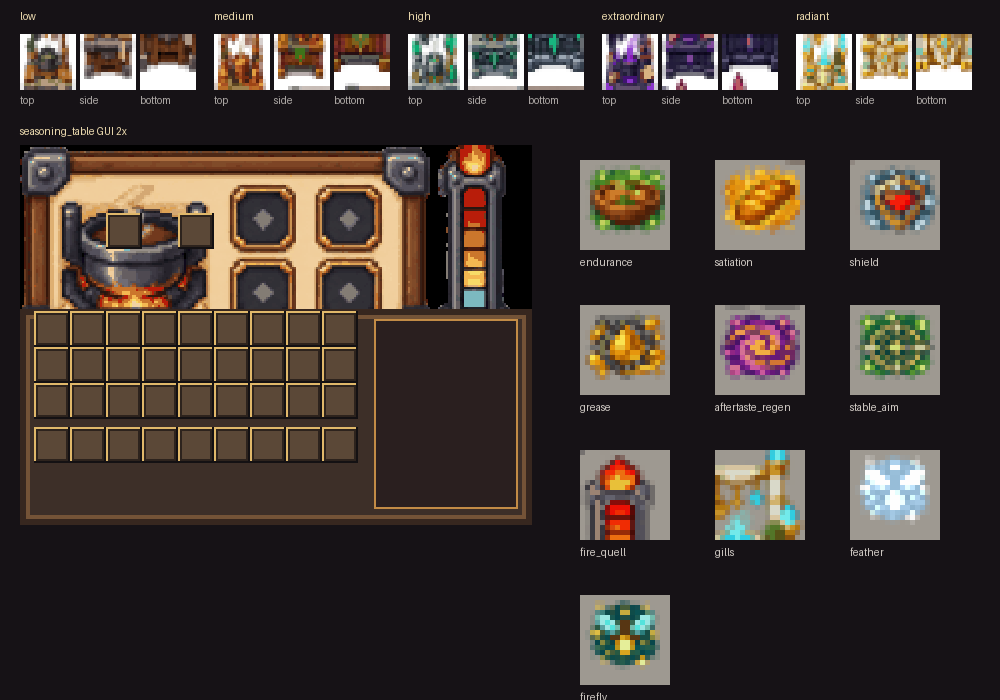
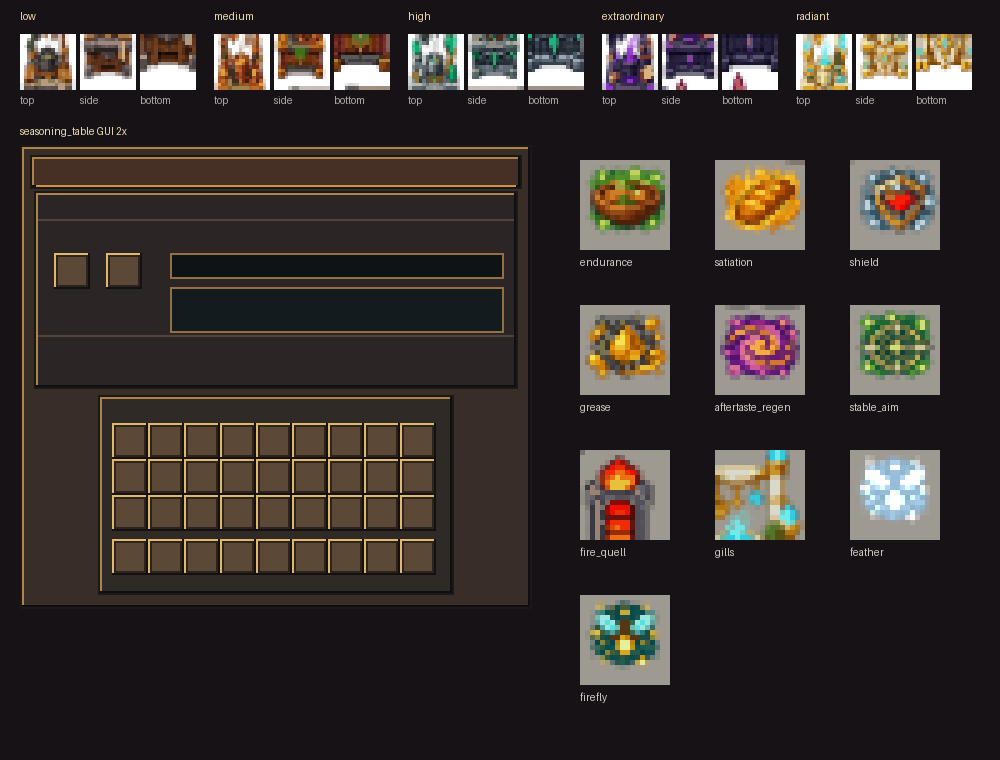
fix(chef): 重做调味台界面与工作台模型

diff --git a/src/main/java/com/miningdim/job/chef/client/SeasoningScreen.java b/src/main/java/com/miningdim/job/chef/client/SeasoningScreen.java
@@ -20,30 +20,51 @@ public final class SeasoningScreen extends AbstractMiningScreen<SeasoningMenu> {
     private static final ResourceLocation BG =
             new ResourceLocation(MiningConstants.MODID, "textures/gui/seasoning_table.png");
     private static final int WIDTH = 256;
-    private static final int HEIGHT = 190;
+    private static final int HEIGHT = 232;
 
-    private static final int HEAT_BAR_X = 24;
-    private static final int HEAT_BAR_Y = 47;
-    private static final int HEAT_BAR_W = 208;
-    private static final int HEAT_BAR_H = 8;
-    private static final int HEAT_BUTTON_X = 24;
-    private static final int HEAT_BUTTON_Y = 64;
-    private static final int HEAT_BUTTON_W = 208;
-    private static final int HEAT_BUTTON_H = 18;
-    private static final int START_X = 24;
-    private static final int START_Y = 64;
-    private static final int START_W = 100;
-    private static final int START_H = 18;
-    private static final int QTE_X = 24;
-    private static final int QTE_Y = 64;
-    private static final int QTE_W = 46;
-    private static final int QTE_H = 18;
-    private static final int QTE_GAP = 8;
+    private static final int HEAT_BAR_X = 76;
+    private static final int HEAT_BAR_Y = 55;
+    private static final int HEAT_BAR_W = 164;
+    private static final int HEAT_BAR_H = 10;
+    private static final int HEAT_BUTTON_X = 76;
+    private static final int HEAT_BUTTON_Y = 72;
+    private static final int HEAT_BUTTON_W = 164;
+    private static final int HEAT_BUTTON_H = 20;
+    private static final int START_X = 76;
+    private static final int START_Y = 72;
+    private static final int START_W = 164;
+    private static final int START_H = 20;
+    private static final int QTE_X = 76;
+    private static final int QTE_Y = 72;
+    private static final int QTE_W = 38;
+    private static final int QTE_H = 20;
+    private static final int QTE_GAP = 4;
 
     private boolean heatPressed;
 
     public SeasoningScreen(SeasoningMenu menu, Inventory inv, Component title) {
         super(menu, inv, title, BG, WIDTH, HEIGHT);
+        this.titleLabelX = 12;
+        this.titleLabelY = 8;
+        this.inventoryLabelX = 47;
+        this.inventoryLabelY = 128;
+    }
+
+    @Override
+    protected void renderBg(GuiGraphics graphics, float partialTick, int mouseX, int mouseY) {
+        int leftPos = (this.width - WIDTH) / 2;
+        int topPos = (this.height - HEIGHT) / 2;
+        // 不能使用默认 256x256 UV 尺寸：本界面高 232px，否则背景会被纵向采样错位，槽位与文字全部叠在一起。
+        graphics.blit(BG, leftPos, topPos, WIDTH, HEIGHT,
+                0.0F, 0.0F, WIDTH, HEIGHT, WIDTH, HEIGHT);
+        renderExtra(graphics, leftPos, topPos, mouseX, mouseY, partialTick);
+    }
+
+    @Override
+    protected void renderLabels(GuiGraphics graphics, int mouseX, int mouseY) {
+        graphics.drawString(font, title, titleLabelX, titleLabelY, 0xFFF4E3B6, false);
+        graphics.drawString(font, playerInventoryTitle,
+                inventoryLabelX, inventoryLabelY, 0xFFD5C8B5, false);
     }
 
     @Override
@@ -66,6 +87,7 @@ public final class SeasoningScreen extends AbstractMiningScreen<SeasoningMenu> {
                             : "screen.miningdim.chef.heat.press"),
                     heatPressed ? 0xFFB86B2B : 0xFF386B87);
         }
+        renderSlotLabels(graphics, leftPos, topPos);
         renderOutcome(graphics, leftPos, topPos, phase);
     }
 
@@ -76,13 +98,20 @@ public final class SeasoningScreen extends AbstractMiningScreen<SeasoningMenu> {
             case 3 -> Component.translatable("screen.miningdim.chef.phase.done");
             default -> Component.translatable("screen.miningdim.chef.phase.idle");
         };
-        graphics.drawString(font, state, leftPos + 24, topPos + 8, 0xFFE6EEF2, false);
+        graphics.drawString(font, state, leftPos + 12, topPos + 26, 0xFFE9E2D3, false);
         graphics.drawString(font, Component.translatable("screen.miningdim.chef.time",
-                        menu.remainingTicks()), leftPos + 24, topPos + 20, 0xFFB8C6CE, false);
+                        menu.remainingTicks()), leftPos + 116, topPos + 26, 0xFFC8D1D4, false);
         graphics.drawString(font, Component.translatable("screen.miningdim.chef.hits",
-                        menu.hits(), menu.qteCount()), leftPos + 126, topPos + 20, 0xFFB8C6CE, false);
+                        menu.hits(), menu.qteCount()), leftPos + 200, topPos + 26, 0xFFC8D1D4, false);
         graphics.drawString(font, Component.translatable("screen.miningdim.chef.tier_cap",
-                        menu.tierCap().id()), leftPos + 24, topPos + 34, 0xFFD7B86A, false);
+                        menu.tierCap().id()), leftPos + 76, topPos + 42, 0xFFE2BD6B, false);
+    }
+
+    private void renderSlotLabels(GuiGraphics graphics, int leftPos, int topPos) {
+        graphics.drawString(font, Component.translatable("screen.miningdim.chef.slot.dish"),
+                leftPos + 17, topPos + 42, 0xFFBFAF98, false);
+        graphics.drawString(font, Component.translatable("screen.miningdim.chef.slot.seasoning"),
+                leftPos + 43, topPos + 42, 0xFFBFAF98, false);
     }
 
     private void renderHeatBar(GuiGraphics graphics, int leftPos, int topPos) {
@@ -102,11 +131,11 @@ public final class SeasoningScreen extends AbstractMiningScreen<SeasoningMenu> {
         Component targetPrompt = menu.cueActive()
                 ? Component.translatable("screen.miningdim.chef.target", menu.targetIndex() + 1)
                 : Component.translatable("screen.miningdim.chef.target.wait");
-        graphics.drawString(font, targetPrompt, leftPos + QTE_X, topPos + 53, 0xFFF0CE72, false);
+        graphics.drawString(font, targetPrompt, leftPos + 12, topPos + 99, 0xFFF0CE72, false);
         for (int target = 0; target < 4; target++) {
             int x = leftPos + QTE_X + target * (QTE_W + QTE_GAP);
             int y = topPos + QTE_Y;
-            boolean selected = target == menu.targetIndex();
+            boolean selected = menu.cueActive() && target == menu.targetIndex();
             boolean hovered = inRect(mouseX, mouseY, x, y, QTE_W, QTE_H);
             int color = selected ? 0xFFB47532 : 0xFF30434D;
             if (hovered) {
@@ -123,13 +152,13 @@ public final class SeasoningScreen extends AbstractMiningScreen<SeasoningMenu> {
         }
         if (menu.failureReason() == 0 && menu.finalQuality() >= 0) {
             graphics.drawString(font, Component.translatable("screen.miningdim.chef.quality",
-                            qualityText()), leftPos + 24, topPos + 88, 0xFFF0CE72, false);
-            graphics.drawString(font, Component.translatable("screen.miningdim.chef.done.take_output"),
-                    leftPos + 24, topPos + 101, 0xFFB8C6CE, false);
+                            qualityText()), leftPos + 12, topPos + 98, 0xFFF0CE72, false);
+            graphics.drawWordWrap(font, Component.translatable("screen.miningdim.chef.done.take_output"),
+                    leftPos + 12, topPos + 108, 232, 0xFFB8C6CE);
             return;
         }
-        graphics.drawString(font, Component.translatable("screen.miningdim.chef.failure",
-                        failureText()), leftPos + 24, topPos + 88, 0xFFE58B8B, false);
+        graphics.drawWordWrap(font, Component.translatable("screen.miningdim.chef.failure",
+                        failureText()), leftPos + 12, topPos + 98, 232, 0xFFE58B8B);
     }
 
     private Component failureText() {
@@ -173,7 +202,7 @@ public final class SeasoningScreen extends AbstractMiningScreen<SeasoningMenu> {
                 }
             }
             case 2 -> {
-                int target = targetAt(mouseX, mouseY, leftPos, topPos);
+                int target = menu.cueActive() ? targetAt(mouseX, mouseY, leftPos, topPos) : -1;
                 if (target >= 0) {
                     send(SeasoningGameC2S.Action.SEASON_HIT, target);
                     return true;

diff --git a/tools/generate_chef_assets.py b/tools/generate_chef_assets.py
@@ -67,25 +67,48 @@ def slot(draw: ImageDraw.ImageDraw, x: int, y: int) -> None:
     draw.rectangle((x + 2, y + 2, x + 15, y + 15), fill=(91, 72, 55, 255))
 
 
-def build_gui(source: Image.Image) -> None:
+def bevel_panel(draw: ImageDraw.ImageDraw, box: tuple[int, int, int, int],
+                fill: tuple[int, int, int, int]) -> None:
+    """Draw a one-pixel, Minecraft-style hard-edged panel without resampling."""
+    left, top, right, bottom = box
+    draw.rectangle(box, fill=(28, 24, 24, 255))
+    draw.line((left + 1, top + 1, right - 1, top + 1), fill=(174, 132, 76, 255))
+    draw.line((left + 1, top + 1, left + 1, bottom - 1), fill=(174, 132, 76, 255))
+    draw.line((left + 1, bottom - 1, right - 1, bottom - 1), fill=(15, 14, 16, 255))
+    draw.line((right - 1, top + 1, right - 1, bottom - 1), fill=(15, 14, 16, 255))
+    draw.rectangle((left + 2, top + 2, right - 2, bottom - 2), fill=fill)
+
+
+def build_gui(_source: Image.Image) -> None:
     gui_dir = TEXTURES / "gui"
     gui_dir.mkdir(parents=True, exist_ok=True)
-    panel_source = source.crop((380, 455, 1110, 755)).resize((256, 105), Image.Resampling.BOX)
-    panel_source = panel_source.convert("RGB").quantize(colors=64).convert("RGBA")
-    canvas = Image.new("RGBA", (256, 190), (38, 27, 25, 255))
-    canvas.paste(panel_source, (0, 0))
+    # UI 必须逐像素绘制，不能从概念图缩放：缩放图会产生模糊边缘，也无法与真实 Slot 坐标对齐。
+    canvas = Image.new("RGBA", (256, 232), (24, 21, 22, 255))
     draw = ImageDraw.Draw(canvas)
-    draw.rectangle((0, 82, 255, 189), fill=(55, 39, 31, 255))
-    draw.rectangle((3, 85, 252, 186), fill=(116, 83, 55, 255))
-    draw.rectangle((5, 87, 250, 184), fill=(61, 47, 40, 255))
-    for x, y in ((44, 35), (80, 35)):
+
+    # 外框、标题栏、操作区和背包区各自独立，运行时文字不再压在装饰图或物品槽上。
+    bevel_panel(draw, (0, 0, 255, 231), (57, 45, 39, 255))
+    bevel_panel(draw, (5, 5, 250, 21), (70, 48, 37, 255))
+    draw.line((8, 20, 247, 20), fill=(205, 147, 69, 255))
+    bevel_panel(draw, (7, 23, 248, 121), (43, 38, 37, 255))
+    bevel_panel(draw, (39, 125, 216, 224), (48, 42, 39, 255))
+
+    # 火候槽与动作区只提供清晰边框；颜色、文本和指针全部由 Screen 实时绘制。
+    draw.rectangle((75, 54, 241, 66), fill=(14, 19, 22, 255), outline=(147, 112, 67, 255))
+    draw.rectangle((75, 71, 241, 93), fill=(19, 27, 30, 255), outline=(147, 112, 67, 255))
+    draw.line((9, 37, 246, 37), fill=(81, 67, 57, 255))
+    draw.line((9, 95, 246, 95), fill=(81, 67, 57, 255))
+
+    # 成品菜与调料槽；参数为槽边框坐标，物品 Slot 坐标分别是 (18,55)/(44,55)。
+    for x, y in ((18, 55), (44, 55)):
         slot(draw, x - 1, y - 1)
+
+    # 玩家背包 Slot 坐标从 (47,140) 起，热键栏 y=198，与 SeasoningMenu 完全一致。
     for row in range(3):
         for column in range(9):
-            slot(draw, 7 + column * 18, 83 + row * 18)
+            slot(draw, 46 + column * 18, 139 + row * 18)
     for column in range(9):
-        slot(draw, 7 + column * 18, 141)
-    draw.rectangle((177, 87, 248, 181), fill=(42, 31, 31, 255), outline=(194, 139, 70, 255))
+        slot(draw, 46 + column * 18, 197)
     canvas.save(gui_dir / "seasoning_table.png", optimize=True)
 
 
@@ -118,7 +141,7 @@ def build_icons(source: Image.Image) -> None:
 
 def build_preview() -> None:
     """Assemble every runtime PNG into one enlarged QA sheet for visual inspection."""
-    preview = Image.new("RGBA", (1000, 700), (22, 18, 22, 255))
+    preview = Image.new("RGBA", (1000, 760), (22, 18, 22, 255))
     draw = ImageDraw.Draw(preview)
     block_dir = TEXTURES / "block"
     for index, tier in enumerate(TIERS):
@@ -131,7 +154,7 @@ def build_preview() -> None:
             draw.text((group_x + face_index * 60, 94), face, fill=(174, 169, 166, 255))
 
     gui = Image.open(TEXTURES / "gui" / "seasoning_table.png").convert("RGBA")
-    preview.paste(gui.resize((512, 380), Image.Resampling.NEAREST), (20, 145))
+    preview.paste(gui.resize((512, 464), Image.Resampling.NEAREST), (20, 145))
     draw.text((20, 125), "seasoning_table GUI 2x", fill=(238, 220, 176, 255))
 
     icon_dir = TEXTURES / "mob_effect"

diff --git a/src/main/java/com/miningdim/job/chef/SeasoningTableBlock.java b/src/main/java/com/miningdim/job/chef/SeasoningTableBlock.java
@@ -6,6 +6,7 @@ import net.minecraft.world.InteractionHand;
 import net.minecraft.world.InteractionResult;
 import net.minecraft.world.entity.player.Player;
 import net.minecraft.world.level.Level;
+import net.minecraft.world.level.BlockGetter;
 import net.minecraft.world.level.block.Block;
 import net.minecraft.world.level.block.EntityBlock;
 import net.minecraft.world.level.block.entity.BlockEntity;
@@ -14,6 +15,9 @@ import net.minecraft.world.level.block.entity.BlockEntityType;
 import net.minecraft.world.level.block.state.BlockBehaviour;
 import net.minecraft.world.level.block.state.BlockState;
 import net.minecraft.world.phys.BlockHitResult;
+import net.minecraft.world.phys.shapes.CollisionContext;
+import net.minecraft.world.phys.shapes.Shapes;
+import net.minecraft.world.phys.shapes.VoxelShape;
 import net.minecraftforge.network.NetworkHooks;
 import org.jetbrains.annotations.Nullable;
 
@@ -26,6 +30,15 @@ import org.jetbrains.annotations.Nullable;
  */
 public final class SeasoningTableBlock extends Block implements EntityBlock {
 
+    /** 与资源模型一致：厚台面、下层搁板及四根桌腿，不再使用整方块碰撞盒。 */
+    private static final VoxelShape TABLE_SHAPE = Shapes.or(
+            Block.box(0.0D, 12.0D, 0.0D, 16.0D, 16.0D, 16.0D),
+            Block.box(2.0D, 5.0D, 2.0D, 14.0D, 7.0D, 14.0D),
+            Block.box(1.0D, 0.0D, 1.0D, 4.0D, 12.0D, 4.0D),
+            Block.box(12.0D, 0.0D, 1.0D, 15.0D, 12.0D, 4.0D),
+            Block.box(1.0D, 0.0D, 12.0D, 4.0D, 12.0D, 15.0D),
+            Block.box(12.0D, 0.0D, 12.0D, 15.0D, 12.0D, 15.0D));
+
     private final ChefQuality tierCap;
 
     public SeasoningTableBlock(BlockBehaviour.Properties properties, ChefQuality tierCap) {
@@ -36,6 +49,17 @@ public final class SeasoningTableBlock extends Block implements EntityBlock {
     /** 本档调味台能产出的最高品质 (与厨师等级取 min)。 */
     public ChefQuality tierCap() {
         return tierCap;
+    }
+
+    @Override
+    public VoxelShape getShape(BlockState state, BlockGetter level, BlockPos pos, CollisionContext context) {
+        return TABLE_SHAPE;
+    }
+
+    @Override
+    public VoxelShape getCollisionShape(BlockState state, BlockGetter level, BlockPos pos,
+                                        CollisionContext context) {
+        return TABLE_SHAPE;
     }
 
     @Override

diff --git a/src/main/java/com/miningdim/job/chef/SeasoningMenu.java b/src/main/java/com/miningdim/job/chef/SeasoningMenu.java
@@ -55,7 +55,7 @@ public final class SeasoningMenu extends AbstractMiningMenu {
         this.blockEntity = be;
         this.data = be.dataAccess();
         addContainerSlots(be);
-        addPlayerInventory(playerInv, 8, 84);
+        addPlayerInventory(playerInv, 47, 140);
         addDataSlots(data);
     }
 
@@ -68,13 +68,13 @@ public final class SeasoningMenu extends AbstractMiningMenu {
         this.blockEntity = clientBlockEntity(playerInv, pos);
         this.data = new SimpleContainerData(DATA_SIZE);
         addContainerSlots(blockEntity);
-        addPlayerInventory(playerInv, 8, 84);
+        addPlayerInventory(playerInv, 47, 140);
         addDataSlots(data);
     }
 
     private void addContainerSlots(SeasoningTableBlockEntity be) {
         // 输入槽 (仅食物) + 调料槽 (仅 seasonings)。坐标按界面布局。
-        this.addSlot(new SlotItemHandler(be.inputSlots(), SLOT_INPUT, 44, 35) {
+        this.addSlot(new SlotItemHandler(be.inputSlots(), SLOT_INPUT, 18, 55) {
             @Override
             public boolean mayPlace(ItemStack stack) {
                 return !be.isActive() && stack.getFoodProperties(null) != null;
@@ -85,7 +85,7 @@ public final class SeasoningMenu extends AbstractMiningMenu {
                 return !be.isActive();
             }
         });
-        this.addSlot(new SlotItemHandler(be.inputSlots(), SLOT_SEASONING, 80, 35) {
+        this.addSlot(new SlotItemHandler(be.inputSlots(), SLOT_SEASONING, 44, 55) {
             @Override
             public boolean mayPlace(ItemStack stack) {
                 return !be.isActive() && SeasoningTag.isSeasoning(stack);

diff --git a/src/main/java/com/miningdim/job/chef/ChefBlocks.java b/src/main/java/com/miningdim/job/chef/ChefBlocks.java
@@ -40,7 +40,7 @@ public final class ChefBlocks {
                     () -> new SeasoningTableBlock(tableProps(), ChefQuality.RADIANT));
 
     private static BlockBehaviour.Properties tableProps() {
-        return BlockBehaviour.Properties.copy(Blocks.SMITHING_TABLE);
+        return BlockBehaviour.Properties.copy(Blocks.SMITHING_TABLE).noOcclusion();
     }
 
     public static void register(IEventBus modBus) {
